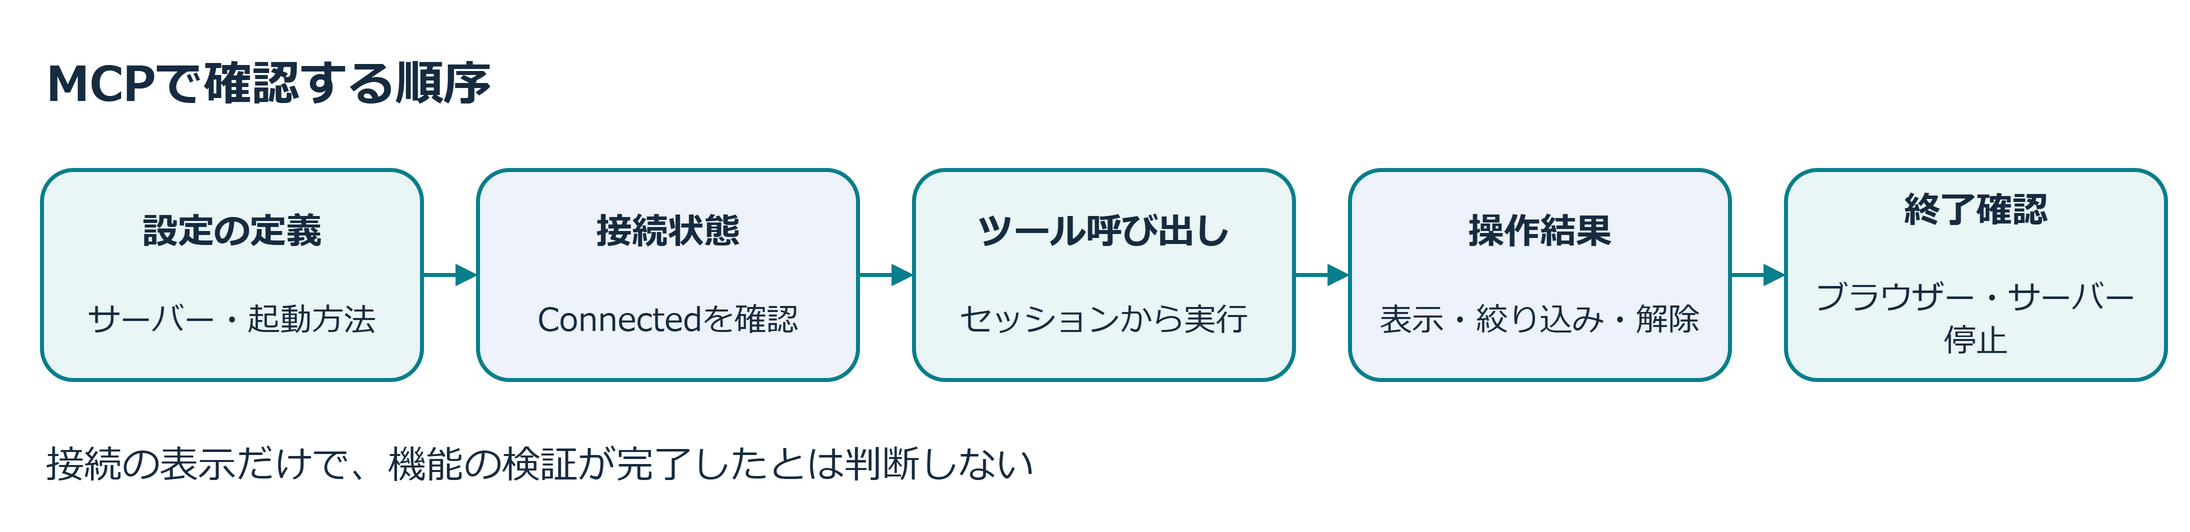
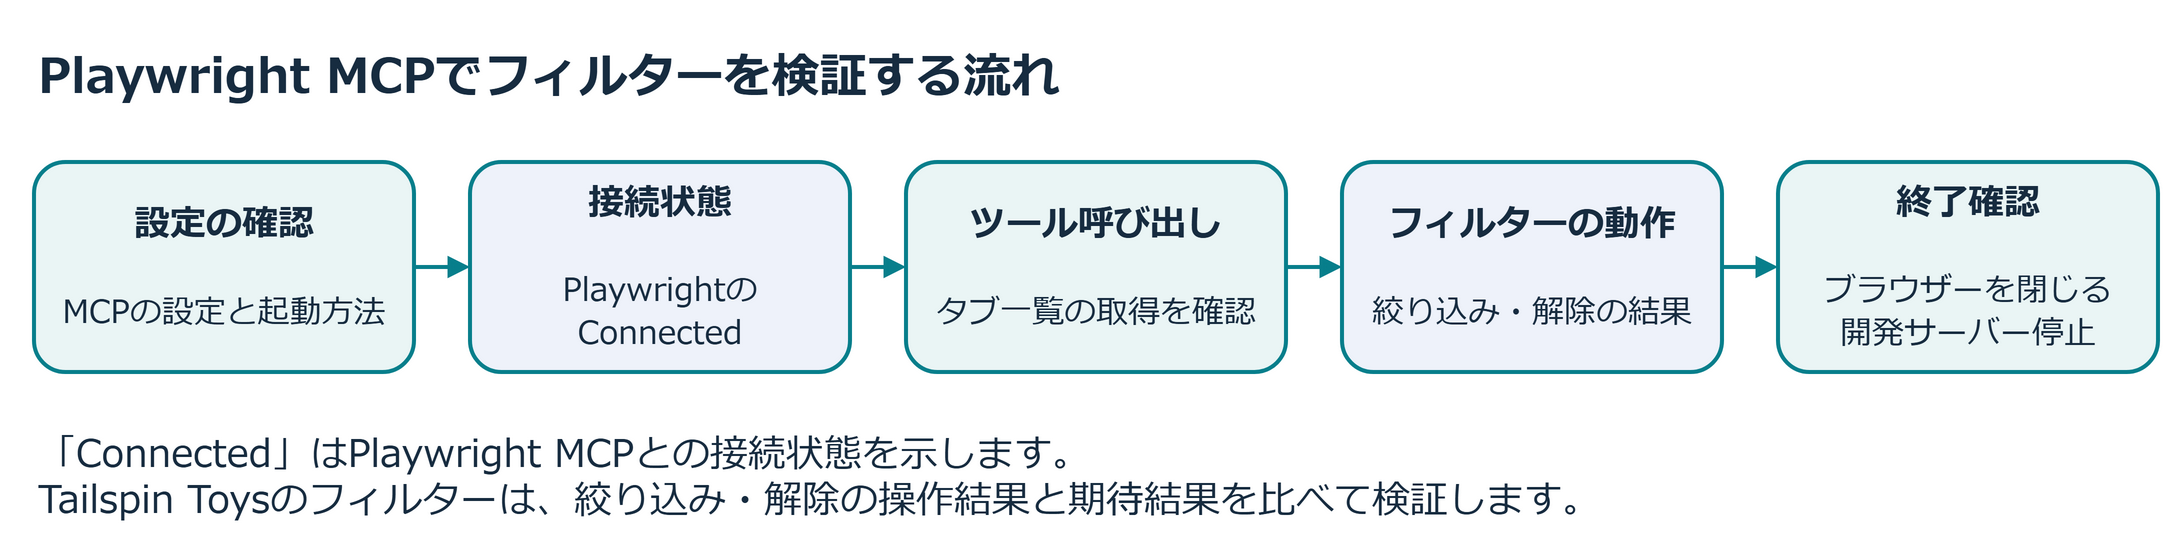
Regenerate MCP chapter diagram and review record for distribution

diff --git a/website/ja/workshops/material/verification.html b/website/ja/workshops/material/verification.html
@@ -13,6 +13,9 @@
 <strong>今回の実走は、GitHub連携経路で追加指示を行いながら確認した結果です。</strong> 改訂後の初回プロンプトだけによる再現や、未実施の経路まで確認済みとは扱いません。以下の「未作成」「未マージ」は各段階での状態を表します。現在の未確認範囲は本書の第2節、画面ごとの確認項目は<a href="ui-check.html">UI確認表</a>を参照してください。</p>
 </blockquote>
 <h2>1. 実走結果と教材改訂の記録</h2>
+<h3>2026年10月4日：Playwright MCPの接続とフィルター検証の区別</h3>
+<p>第6章の概要図と本文で、接続表示の対象はPlaywright MCP、動作を検証する対象はTailspin Toysのフィルターと明記しました。図の注記は、絞り込み・解除の操作結果と期待結果を比べる説明に置き換えています。既存設定の確認、タブ一覧を取得できることの確認、フィルターの動作確認を区別し、最後に閉じるブラウザーと停止する開発サーバーも明示しました。既存の入力用プロンプト、手順、受け入れ条件、見出し、リンク、画面画像は維持しています。</p>
+<p>修正文と図の文字は、登録済みのJustRight MCPの既定設定で検査して、指摘0件でした。文書修正後のAntigravityの確認にはJustRight MCPとyomiyasuスキルの使用を要望として含めました。Antigravityはスキルを読み、図の注記と概要の段落をMCPで1回検査して、指摘0件でした。追加確認で、対象と用語、次章で使う実装セッションを保つ条件も確認しています。修正後の概要段落と図の文字のyomiyasuリンター評価は、いずれも100点でした。配布用の自動検査10件が成功しました。この変更は教材の説明を明確にするもので、演習の再実走ではありません。</p>
 <h3>2026年10月4日：強調表示の役割と統一</h3>
 <p>受講者向けの12原稿と関連資料7原稿を点検し、定義の見出しと、手順で探す画面の操作名・状態表示の強調をそろえました。第4章の指示ファイルの説明では、2種類の名称だけを強調し、ファイルパスは通常のコード表示にしています。第5章のモード説明はInteractive・Plan・Autopilotの名称を同じように強調しました。操作経路の矢印、助詞、説明の続きは強調の外に置いています。既存の要件や注意事項の強調は、その役割を確認して保持しました。</p>
 <p>修正した本文106行を、登録済みのJustRight MCPの既定設定で検査しました。本文への指摘は0件でした。相対リンクの<code>..</code>への1件の指摘は、Markdownとして正しい表記であることを確認して残しています。変更前後の比較では、表示される文章、見出し、コードと入力用プロンプト、リンク、画像が同じであることを確認しました。UI確認表の<code>node --version</code>は、文字を変えずにコード表示へそろえています。</p>

diff --git a/website/ja/workshops/app/6-mcp-playwright.html b/website/ja/workshops/app/6-mcp-playwright.html
@@ -40,8 +40,8 @@
 </div>
 </details><article><h2 id="61-章の概要">6.1 章の概要</h2>
 <p>自動テストで確認した条件に加え、利用者の操作に沿って画面を検証する方法を学びます。本章では、CopilotにMCPを通じてブラウザー操作を依頼し、操作履歴と観察結果を根拠に検証の十分さを判断します。</p>
-<p>MCPでブラウザーを動かすときに区別するのは、設定の登録、接続表示、実際のツール呼び出しです。受講者はエージェントの報告と操作履歴を照合し、未実施の操作や期待結果との食い違いがあれば、追加の確認を依頼します。</p>
-<p><img alt="MCPで確認する順序" src="../assets/app-mcp-evidence.png" /></p>
+<p>MCPでブラウザーを動かすときに区別するのは、設定の内容、接続表示、実際のツール呼び出しです。Playwright MCPの<strong>Connected</strong>は、MCP serverとの接続状態を示す表示です。Tailspin Toysのフィルターが正しく動くかは、ブラウザーで絞り込みと解除を操作し、期待した結果と実際の表示を比べて確かめます。受講者はエージェントの報告と操作履歴を照合し、未実施の操作や期待結果との食い違いがあれば、追加の確認を依頼します。</p>
+<p><img alt="Playwright MCPでフィルターを検証する流れ" src="../assets/app-mcp-evidence.png" /></p>
 <h3 id="611-この章で学ぶこと">6.1.1 この章で学ぶこと</h3>
 <p>この章を終えると、Copilotへブラウザーでの検証を依頼し、ツールの呼び出しと操作履歴、観察結果を照合して、受け入れ条件を確認できたか判断できます。</p>
 <table>
